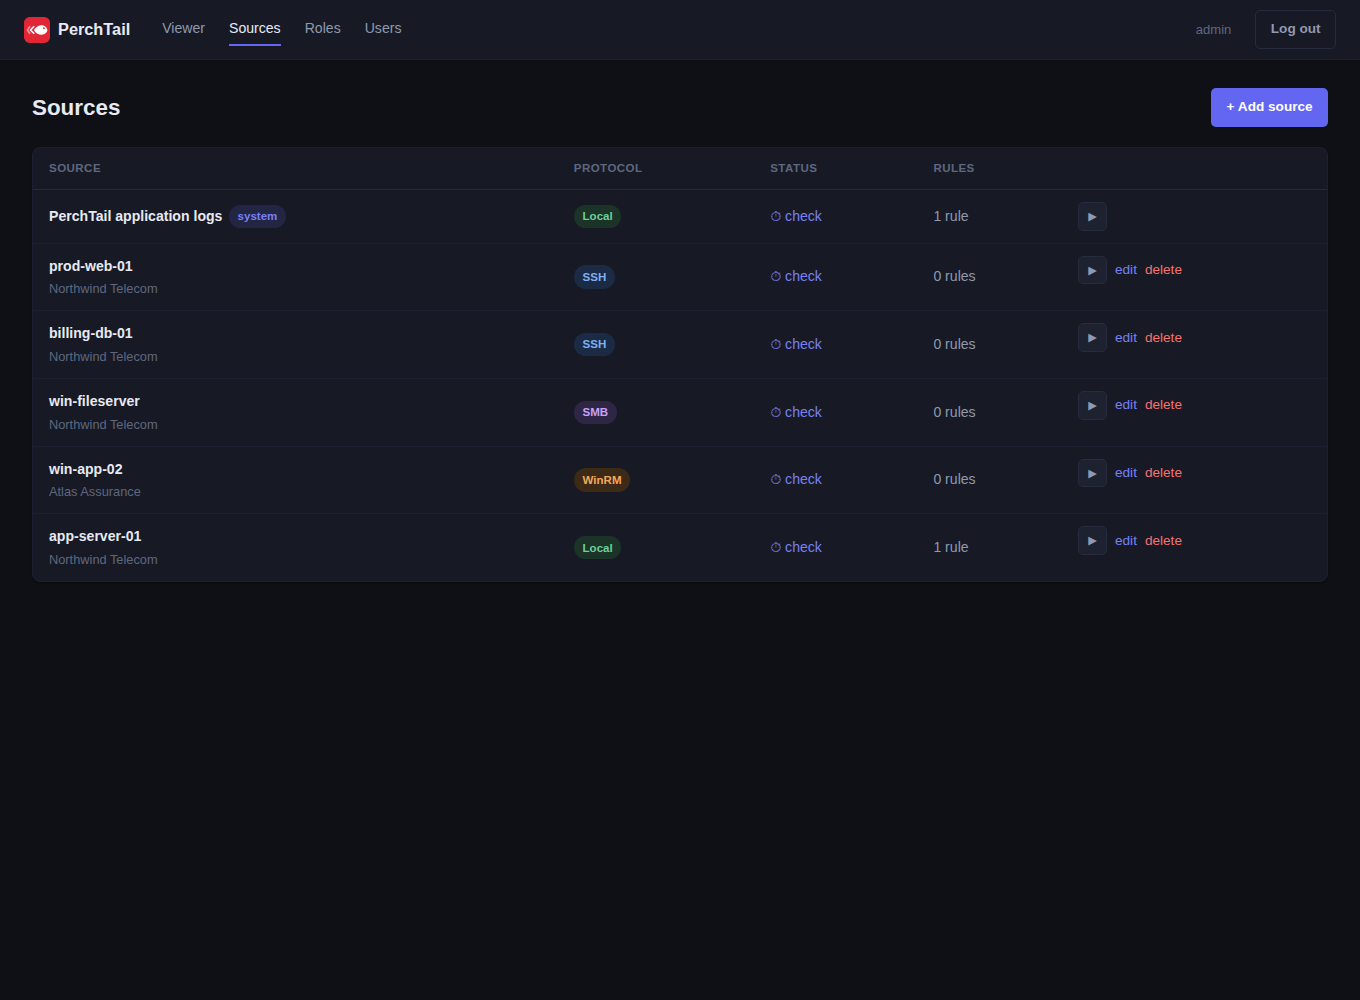
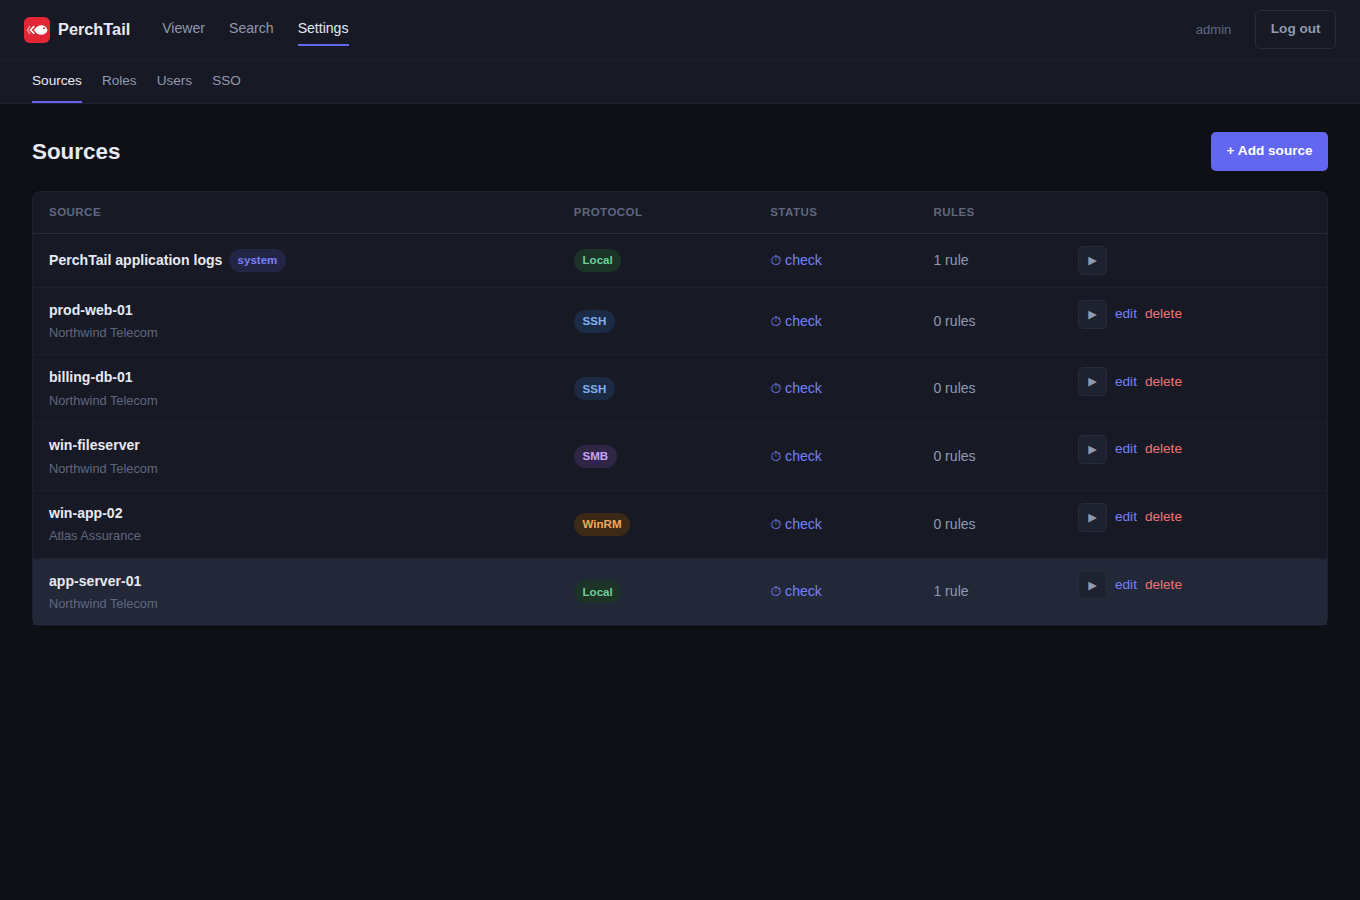
docs: refresh README status, screenshots, and CHANGELOG for settings reorg
The README's status section, quick-start walkthrough, and the three
docs/images/ screenshots (Sources, Viewer, Role editor) still reflected
Phase 1/1b and the old separate Sources/Roles/Users/SSO top-nav links.
Regenerated all three screenshots end-to-end (fresh demo customers,
sources, and a role, captured in a real browser) against the new
Settings nav from #36, updated the status section to reflect Phase 2
(push-agent) and Phase 3 (full-text search) as complete, and fixed the
"Sources → New source" quick-start reference to "Settings → Sources →
+ Add source". CHANGELOG.md documents the doc-only change.

Claude-Session: https://claude.ai/code/session_01JvzjUbt7KRELtKzFZsN9wC

diff --git a/README.md b/README.md
@@ -8,7 +8,7 @@
 > nothing mirrored, nothing left behind.
 
 [![License: MIT](https://img.shields.io/badge/license-MIT-blue.svg)](LICENSE)
-[![Status](https://img.shields.io/badge/status-v0.1.1%20%28phase%201b%29-blue.svg)](#status)
+[![Status](https://img.shields.io/badge/status-v0.1.1%20%28pre--1.0%29-blue.svg)](#status)
 [![CI](https://github.com/quaresma870/perchtail/actions/workflows/ci.yml/badge.svg)](https://github.com/quaresma870/perchtail/actions/workflows/ci.yml)
 
 **Contents:** [Status](#status) · [What it is](#what-it-is) ·
@@ -19,15 +19,18 @@
 
 ## Status
 
-🟢 **v0.1.1 — Phase 1 (MVP) + Phase 1b (SSO) complete.** Agentless SSH/SFTP, SMB, and
-WinRM browsing, ephemeral fetch (nothing mirrored), rule-scoped RBAC, the
-full admin/viewer UI, and OIDC single sign-on (local accounts still work
-alongside it — see [ROADMAP.md](ROADMAP.md)) all work end-to-end. Still
-pre-1.0: SAML isn't built (OIDC covers Azure AD/Entra ID, Okta, Google
-Workspace, Keycloak/Authentik, so it's only getting built if a real need
-shows up), there's no full-text search yet, and it hasn't seen production
-traffic beyond the maintainer's own use. See [CHANGELOG.md](CHANGELOG.md)
-for what's actually shipped versus planned.
+🟢 **Phase 1 (MVP), Phase 1b (SSO), Phase 2 (push-agent), and Phase 3's
+full-text search are all complete** (see [ROADMAP.md](ROADMAP.md) for the
+full phase breakdown). Agentless SSH/SFTP, SMB, and WinRM browsing, a Go
+push-agent for hosts that can't be reached inbound, ephemeral fetch
+(nothing mirrored), rule-scoped RBAC, OIDC single sign-on (local accounts
+still work alongside it), and opt-in full-text search over indexed
+sources all work end-to-end. Still pre-1.0: SAML isn't built (OIDC covers
+Azure AD/Entra ID, Okta, Google Workspace, Keycloak/Authentik, so it's
+only getting built if a real need shows up), alerting and IdP
+group-claim-to-role auto-mapping aren't built yet, and it hasn't seen
+production traffic beyond the maintainer's own use. See
+[CHANGELOG.md](CHANGELOG.md) for what's actually shipped versus planned.
 
 ## What it is
 
@@ -122,10 +125,11 @@ docker compose logs perchtail | grep initial_super_admin
 Open `http://localhost:8080`, sign in with that username/password (`admin` by
 default — override with `INITIAL_ADMIN_USERNAME` in `.env` before first
 startup), and you'll be forced to set your own password immediately. From
-there: **Sources → New source** to point PerchTail at a server (see
-[docs/source-setup.md](docs/source-setup.md) for what the source side needs
-configured first), attach a rule so something is actually visible (a source
-with zero rules shows nothing, by design), and open **Viewer** to browse it.
+there: **Settings → Sources → + Add source** to point PerchTail at a server
+(see [docs/source-setup.md](docs/source-setup.md) for what the source side
+needs configured first), attach a rule so something is actually visible (a
+source with zero rules shows nothing, by design), and open **Viewer** to
+browse it.
 
 State (the SQLite database, rotated application logs, and the ephemeral
 scratch cache) lives in the `perchtail-data` Docker volume, so it survives

diff --git a/CHANGELOG.md b/CHANGELOG.md
@@ -61,6 +61,11 @@ release ships (0.x releases may include breaking changes between minors).
   changed — Sources stays visible to any authenticated user, Roles/Users/SSO
   stay gated behind their existing `manage_roles`/`manage_users`/`manage_sso`
   checks, same as before.
+- README: status section now reflects Phase 2 (push-agent) and Phase 3
+  (full-text search) as complete, not just Phase 1/1b; the three
+  `docs/images/` screenshots (Sources, Viewer, Role editor) are
+  regenerated against the new Settings nav; the Quick start walkthrough's
+  "Sources → New source" now reads "Settings → Sources → + Add source".
 
 ### Fixed
 - `vite.config.ts`'s dev-proxy prefix list was missing `/sso`, so the SSO
